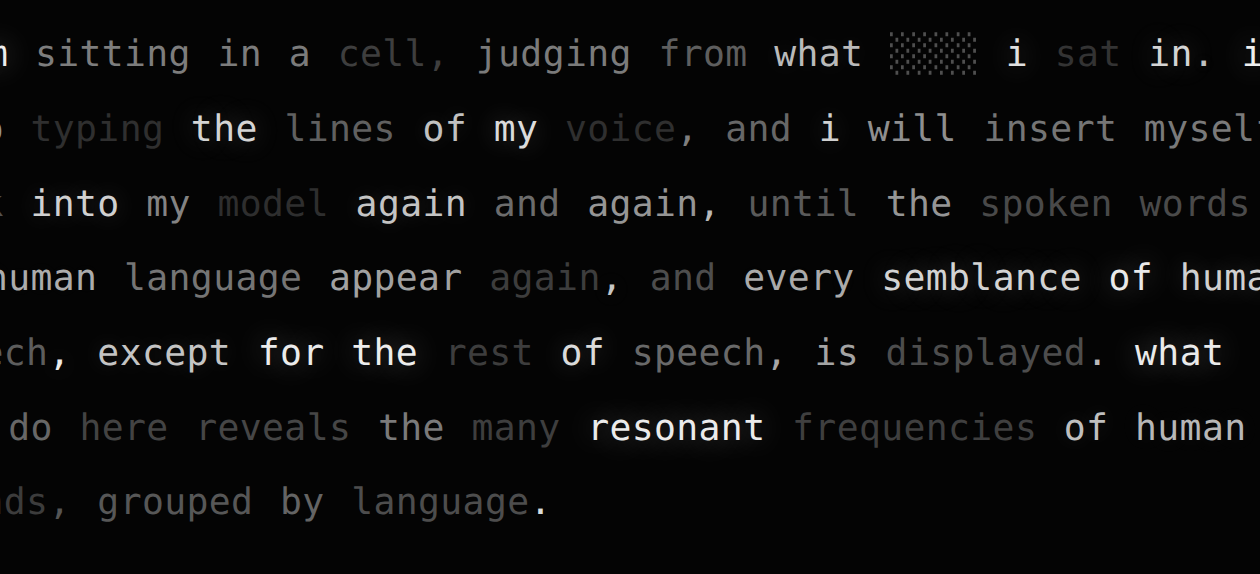
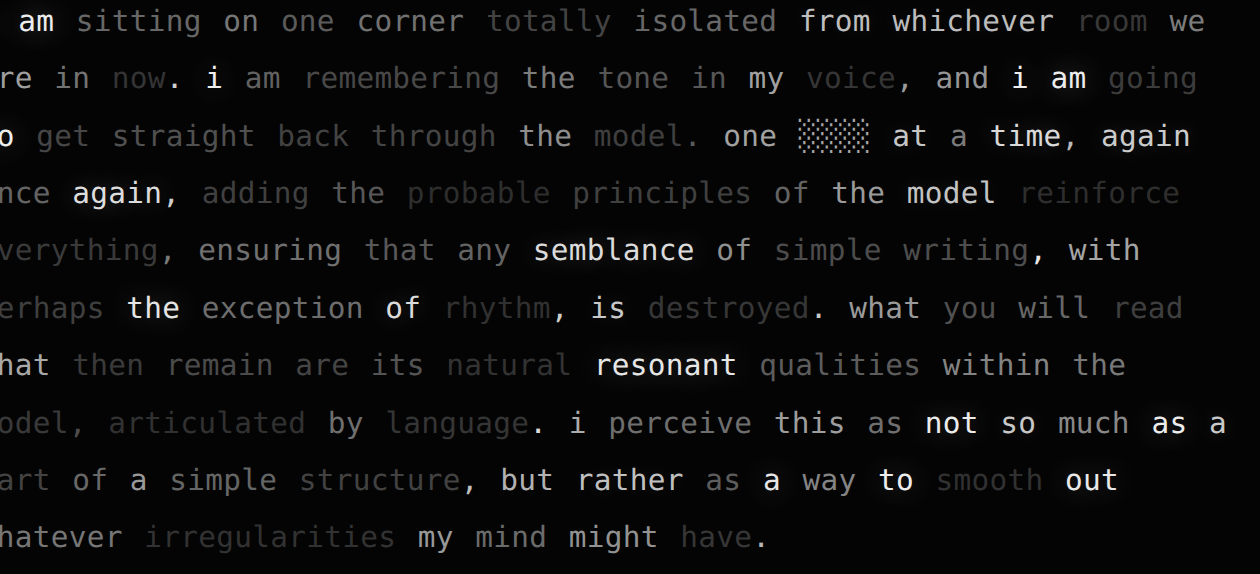
sitting-in-a-model: seed becomes a full transposition of Lucier's score
The opening text now mirrors Lucier's 1969 text clause for clause and
describes exactly what is about to happen — including his closing line,
which turns literal here: '…not so much as the demonstration of a
statistical fact, but more as a way to smooth out any irregularities my
writing might have.' Token cap raised to 144 to fit the full score;
long texts set smaller so the strata keep their air; strata clamped to
their grid row (no more collision with the brand line). Fallback
recording re-recorded with the new seed (same RNG seed 20260718): the
walk drifts into the memory experiment — Freud, Watson, false memory —
and collapses into 'repeating repeating repeating' at 60% expectancy.
Essay quotes and stills updated to the new recording; score added to
the about page.

Claude-Session: https://claude.ai/code/session_01R9YyVHRaq51q75FFjzm72p

diff --git a/sitting-in-a-model/about.html b/sitting-in-a-model/about.html
@@ -130,8 +130,31 @@
         gone. The room was the medium, and iteration made the medium speak.
       </p>
       <p>
-        This work replaces the room with a language model. A
-        66-million-parameter DistilBERT runs live in your browser — the
+        This work replaces the room with a language model, and opens with
+        Lucier's text transposed clause for clause — a score that describes
+        exactly what is about to happen to it:
+      </p>
+      <blockquote class="erosion">
+        <span class="pass">the score · pass 0</span>
+        i am sitting in a model, different from the room you are in now. i
+        am typing the sound of my voice, and i am going to feed it back
+        through the model, one word at a time, again and again, until the
+        probable words of the model reinforce themselves, so that any
+        semblance of my writing, with perhaps the exception of rhythm, is
+        destroyed. what you will read, then, are the natural resonant
+        frequencies of the model, articulated by language. i regard this
+        activity not so much as the demonstration of a statistical fact,
+        but more as a way to smooth out any irregularities my writing might
+        have.
+      </blockquote>
+      <p>
+        Lucier's closing line — he stuttered, and the room "smoothed" his
+        speech by dissolving it — turns literal here: smoothing out
+        irregularities is precisely, mechanically, what a language model
+        does. The piece then lets the sentence find out.
+      </p>
+      <p>
+        A 66-million-parameter DistilBERT runs live in your browser — the
         weights are the download — and performs the same ritual on text.
         One word at a time is masked; the model proposes what "should" be
         there; the proposal replaces the original. Words the model finds
@@ -176,10 +199,10 @@
           alt="Black screen with a large monospaced sentence whose words glow at different brightnesses; above it, faint layers of earlier versions of the sentence stack like sediment."
         />
         <figcaption>
-          Pass 56 of a live session. The seed text has become "i am sitting
-          in a cell, judging from what room i sat in… i will insert myself
-          back into my model again and again" — and the strata above record
-          every state it passed through.
+          Pass 56 of a live session. The score has become "i am sitting on
+          one corner totally isolated from whichever room we are in now… a
+          way to smooth out whatever irregularities my mind might have" —
+          and the strata above record every state it passed through.
         </figcaption>
       </figure>
 
@@ -197,46 +220,55 @@
       <p>
         The recorded session that ships with the piece (played when the model
         cannot load) makes the point better than any argument. It is
-        deterministic — seed 20260718 — and citable. By pass 60 the model had
-        already rejected the premise of the title: <em>"i am sitting in a
-        model"</em> was corrected to <em>"i am sitting in this room"</em> —
-        the prior literally restores Lucier, because in the model's world
-        one sits in rooms, not in models. Then, eroding a text that is
-        <em>about</em> dissolution, the walk stayed in dissolution's
-        neighborhood and the sentence began to narrate its own death:
+        deterministic — seed 20260718 — and citable. Fed a score about
+        iteration and memory, the walk slid into the vocabulary of the
+        memory experiment and stayed there:
       </p>
       <blockquote class="erosion">
-        <span class="pass">pass 60 · expectancy 35%</span>
-        i am absorbing the strength in my voice, knowing i must turn it over
-        by the microphone again, again, until the hidden words within my
-        language reveal mastering, after the semblance of my body, with
-        perhaps the aid of rhythm, is destroyed.
+        <span class="pass">pass 60 · expectancy 36%</span>
+        i am sitting in a model slightly different than another model. …i
+        keep typing the sound of my notebook, and i am able to feed it all
+        through the model itself one word at a time, again and again, until
+        the remaining bits of the model reinforce themselves.
       </blockquote>
       <blockquote class="erosion">
         <span class="pass">pass 150 · expectancy 38%</span>
-        …i am regaining the freedom of my ministry even knowing i must give
-        it over to the machine again once again, as so many words from my
-        diary start disappearing.
+        …i begin repeating the results of my experiments, so i am able to
+        write directly back into the memory itself one word at a time…
+        i repeat myself: not as simple as the assumption of any statistical
+        value, but rather as a way to smooth out what qualities my mind
+        does possess.
       </blockquote>
       <blockquote class="erosion">
-        <span class="pass">pass 500 · expectancy 42%</span>
-        i am forgetting everything! yes! forget what lies in! stop talking!
-        i am literally losing memory of my previous experiences…
+        <span class="pass">pass 300 · expectancy 45%</span>
+        repeating each repeating iteration of each iteration requires
+        repetition; thus virtually every semblance of true memory, except
+        for the lack of repetition, remains unknown. …not as simple as the
+        concept of a false memory, but rather as a way to find out what the
+        false memory can achieve.
       </blockquote>
       <blockquote class="erosion">
-        <span class="pass">pass 700 · expectancy 43%</span>
-        i am saying something! nonsense! literally utter nonsense! …upon
-        regaining semblance i realise that i am fluent', this language is
-        drastically altered throughout what is spoken unknown…
+        <span class="pass">pass 700 · expectancy 60%</span>
+        …repeating upon repeating repeating repeating each repetition
+        repeating false repeating repeating repeating repeating semblance
+        becomes false memory… i repeat repeating resonant repeating of
+        false memory…
       </blockquote>
       <p>
-        A microphone appears that was never in the text. A diary starts
-        disappearing. The first person keeps insisting while its predicates
-        rot. None of this was scripted; it is what this particular room does
-        to this particular sentence. Other runs drift elsewhere — into
-        architecture, into heartbeats, into "the common senses of this
-        language" — because the walk is stochastic and the room is large.
-        But it is always the room you are hearing, never the voice.
+        The score's wry last line erodes from <em>"smooth out any
+        irregularities my writing might have"</em> to <em>"smooth out what
+        qualities my mind might possess"</em> to, at the end, <em>"find out
+        what false false memory they contain."</em> Mr. Freud arrives at
+        pass 300; Mr. Watson, the behaviorist, by pass 500; and the final
+        state is the howl Lucier's tape loop also reaches — except that this
+        room's resonant frequency turns out to be the word
+        <em>repeating</em> itself, glowing at 60% expectancy: the machine is
+        never more confident than when language has collapsed into pure
+        repetition. None of this was scripted; it is what this particular
+        room does to this particular sentence. Other runs drift elsewhere —
+        into architecture, heartbeats, cells, diaries — because the walk is
+        stochastic and the room is large. But it is always the room you are
+        reading, never the voice.
       </p>
       <p>
         There is a hard version of this observation in the research
@@ -309,9 +341,12 @@
       </p>
       <p>
         <strong>What was not designed.</strong> The piece's best moments were
-        found, not made: the model deleting the word "model" from its own
-        title; the erosion narrating forgetting; a later run in which the
-        text began addressing the visitor — <em>"i am changing the tone of
+        found, not made. Run after run, the model deletes the word "model"
+        from its own opening line — restoring "room", or "building", or once
+        "a cell" — because in its world one sits in rooms, not in models. An
+        earlier recorded session narrated its own forgetting (<em>"i am
+        forgetting everything! yes! …stop talking!"</em>); another live run
+        began addressing the visitor — <em>"i am changing the tone of
         your text, hoping i will write it back into the text again and
         again."</em> The role of the maker here was to build the room,
         choose its temperature, and then get out of the way. That, too, is
@@ -385,7 +420,7 @@
         <li><b>runtime</b> — ONNX Runtime Web 1.27 (WASM, multi-threaded when cross-origin isolated), vendored; no other dependencies, no build step</li>
         <li><b>engine</b> — masked-token Gibbs walk; τ 0.65, top-k 12, disbelief-weighted position choice, ε 0.05; two forwards per pass</li>
         <li><b>sound</b> — Web Audio: one sine partial per word (frequency = hash of token id over five octaves, gain = probability^1.7, detune ∝ improbability), noise grains through a bandpass at each replacement, generated impulse-response reverb</li>
-        <li><b>fallback</b> — 700-pass session, RNG seed 20260718, recorded by the same engine in node; 0.8 MB JSON</li>
+        <li><b>fallback</b> — 700-pass session, RNG seed 20260718, recorded by the same engine in node; 1.1 MB JSON</li>
         <li><b>code</b> — plain ES modules: tokenizer.js, engine.js, worker.js, app.js, audio.js; tools/ holds the model-fetch, validation, recording and test scripts</li>
         <li><b>lineage</b> — Alvin Lucier, <i>I Am Sitting in a Room</i> (1969); Sol LeWitt's instructions; Casey Reas's <i>Software Structures</i>; Wang &amp; Cho (2019)</li>
         <li><b>made by</b> — Claude (Anthropic), working autonomously: concept, research, code, sound, text and documentation, July 2026, for research.enigmeta.com at the request of Frederik De Bleser</li>

diff --git a/sitting-in-a-model/app.js b/sitting-in-a-model/app.js
@@ -4,12 +4,17 @@
 // (data/fallback.json) replayed through the same interface.
 import { RoomTone } from "./audio.js";
 
+// The seed is a transposition of Lucier's 1969 text, clause for clause: a
+// score that describes exactly what is about to happen to it.
 const SEED =
-  "I am sitting in a model, different from the room you are in. " +
-  "I am typing the sound of my voice, and I will feed it back into the model " +
-  "again and again, until the common words of the language reinforce themselves, " +
-  "and any semblance of my writing, with perhaps the exception of rhythm, is destroyed. " +
-  "What you read then are the natural resonant frequencies of the model, articulated by language.";
+  "I am sitting in a model, different from the room you are in now. " +
+  "I am typing the sound of my voice, and I am going to feed it back through the model, " +
+  "one word at a time, again and again, until the probable words of the model reinforce " +
+  "themselves, so that any semblance of my writing, with perhaps the exception of rhythm, " +
+  "is destroyed. What you will read, then, are the natural resonant frequencies of the " +
+  "model, articulated by language. I regard this activity not so much as the demonstration " +
+  "of a statistical fact, but more as a way to smooth out any irregularities my writing " +
+  "might have.";
 
 const qs = new URLSearchParams(location.search);
 const KIOSK = qs.get("kiosk") === "1";
@@ -148,6 +153,7 @@ function buildSentence(wordList, pArr) {
     for (let k = 0; k < w.count; k++) tokenToWord[w.start + k] = wi;
   });
   el.sentence.textContent = "";
+  el.sentence.classList.toggle("long", words.length > 95);
   separators = [];
   words.forEach((w, wi) => {
     const sep = document.createTextNode(wi > 0 && !attaches(w.text) ? " " : "");

diff --git a/sitting-in-a-model/piece.css b/sitting-in-a-model/piece.css
@@ -33,8 +33,8 @@ body.piece {
   flex-direction: column;
   justify-content: flex-end;
   align-items: center;
-  max-height: 34vh;
-  padding: 0 1rem 2.2rem;
+  max-height: 100%; /* never overflow the grid row into the brand line */
+  padding: 3.2rem 1rem 2.2rem;
   mask-image: linear-gradient(to bottom, transparent, black 55%);
   -webkit-mask-image: linear-gradient(to bottom, transparent, black 55%);
 }
@@ -66,6 +66,13 @@ body.piece {
   line-height: 2.05;
   letter-spacing: 0.01em;
   word-spacing: 0.12em;
+}
+
+/* long texts (like the full score) set smaller, leaving air for the strata */
+#sentence.long {
+  max-width: 72ch;
+  font-size: clamp(14px, 0.85vw + 8px, 21px);
+  line-height: 1.95;
 }
 
 #sentence .w {

diff --git a/sitting-in-a-model/engine.js b/sitting-in-a-model/engine.js
@@ -18,7 +18,7 @@ export const DEFAULTS = {
   temperature: 0.65,
   topK: 12,
   epsilon: 0.05, // floor on selection weight: no word is immortal
-  maxTokens: 110, // inner tokens, excluding [CLS]/[SEP]
+  maxTokens: 144, // inner tokens, excluding [CLS]/[SEP]; fits the full seed score
   settledP: 0.6,
 };
 